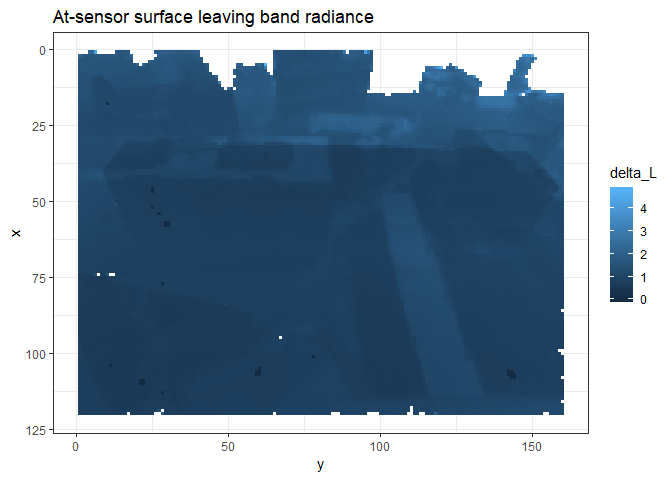
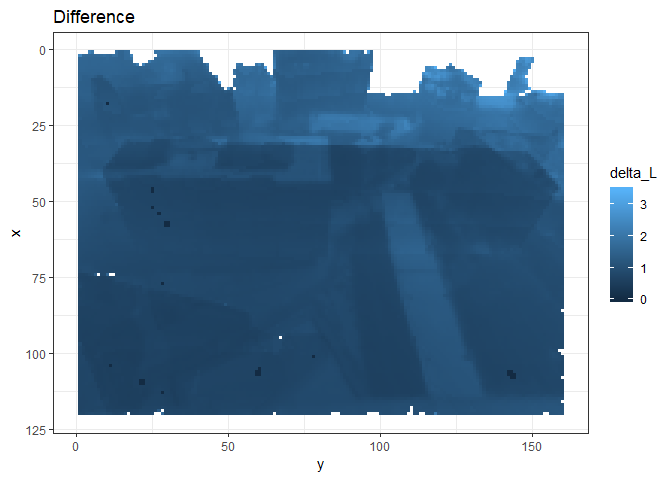
knit

diff --git a/tutorials/Band-calculation/README.md b/tutorials/Band-calculation/README.md
@@ -124,12 +124,12 @@ tmp <- bandRadDF %>%
 ```
 
 ```r
-ggplot(tmp %>% filter(between(bandValueAtm - bandValue, 0, 5))) +
+ggplot(tmp %>% filter(between(bandValueAtm - bandValue, 0, 3.5))) +
   geom_raster(aes(x = x, y = y, fill = bandValueAtm - bandValue)) +
   theme_bw() +
   coord_flip() +
   scale_x_reverse() +
-  ggtitle("At-sensor surface leaving band radiance") +
+  ggtitle("Difference") +
   labs(fill = "delta_L") +
   theme(aspect.ratio = 120 / 160)
 ```
